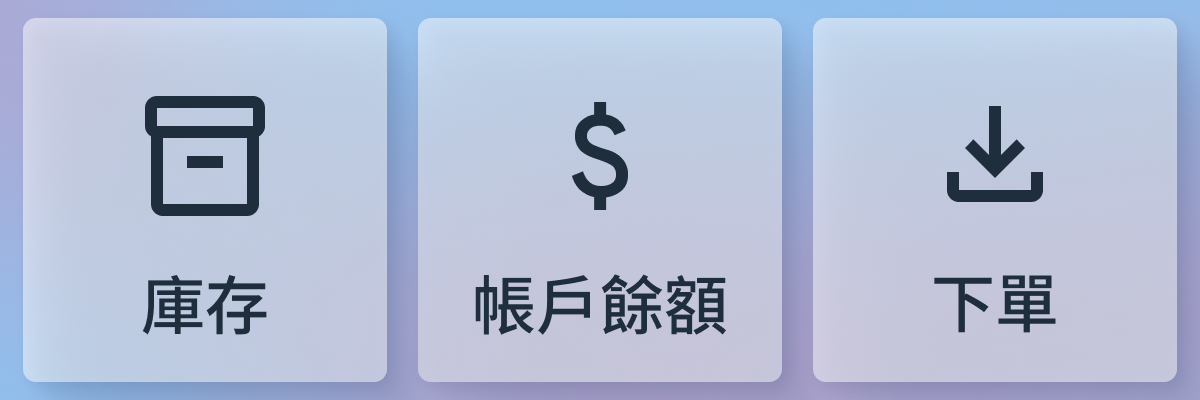
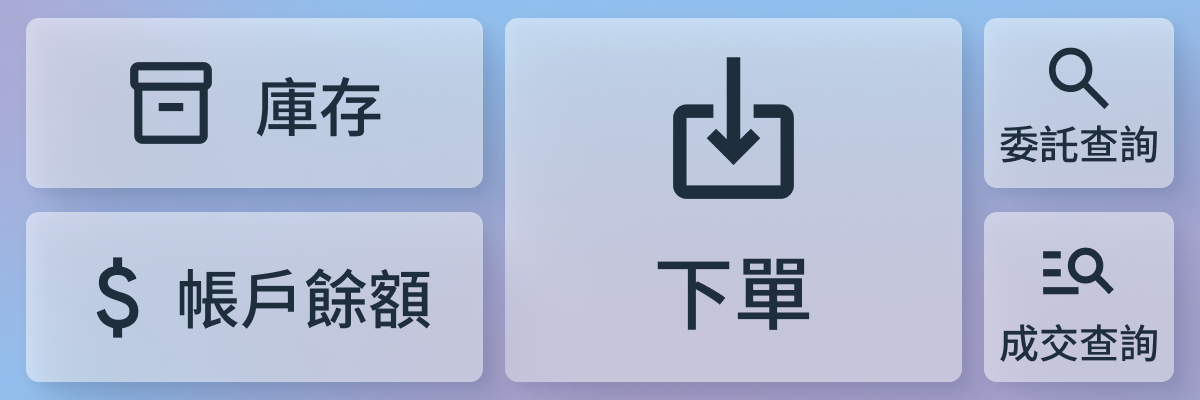
refactor: update rich menu layout

diff --git a/stock_buyer/rich_menu.py b/stock_buyer/rich_menu.py
@@ -13,16 +13,28 @@ RICH_MENU = RichMenuRequest(
     chatBarText="打開/關閉導覽列",
     areas=[
         RichMenuArea(
-            bounds=RichMenuBounds(x=23, y=18, width=364, height=364),
-            action=PostbackAction(data="cmd=stock", label="庫存"),
+            bounds=RichMenuBounds(x=26, y=18, width=457, height=170),
+            action=PostbackAction(data="cmd=list_positions", label="庫存"),
         ),
         RichMenuArea(
-            bounds=RichMenuBounds(x=418, y=18, width=364, height=364),
-            action=PostbackAction(data="cmd=balance", label="帳戶餘額"),
+            bounds=RichMenuBounds(x=26, y=212, width=457, height=170),
+            action=PostbackAction(data="cmd=get_balance", label="帳戶餘額"),
         ),
         RichMenuArea(
-            bounds=RichMenuBounds(x=813, y=18, width=364, height=364),
+            bounds=RichMenuBounds(x=505, y=18, width=457, height=364),
             action=PostbackAction(data="cmd=place_order", label="下單"),
+        ),
+        RichMenuArea(
+            bounds=RichMenuBounds(x=984, y=18, width=190, height=170),
+            action=PostbackAction(
+                data="cmd=list_trades&filled_only=False", label="委託查詢"
+            ),
+        ),
+        RichMenuArea(
+            bounds=RichMenuBounds(x=984, y=212, width=190, height=170),
+            action=PostbackAction(
+                data="cmd=list_trades&filled_only=True", label="成交查詢"
+            ),
         ),
     ],
 )
